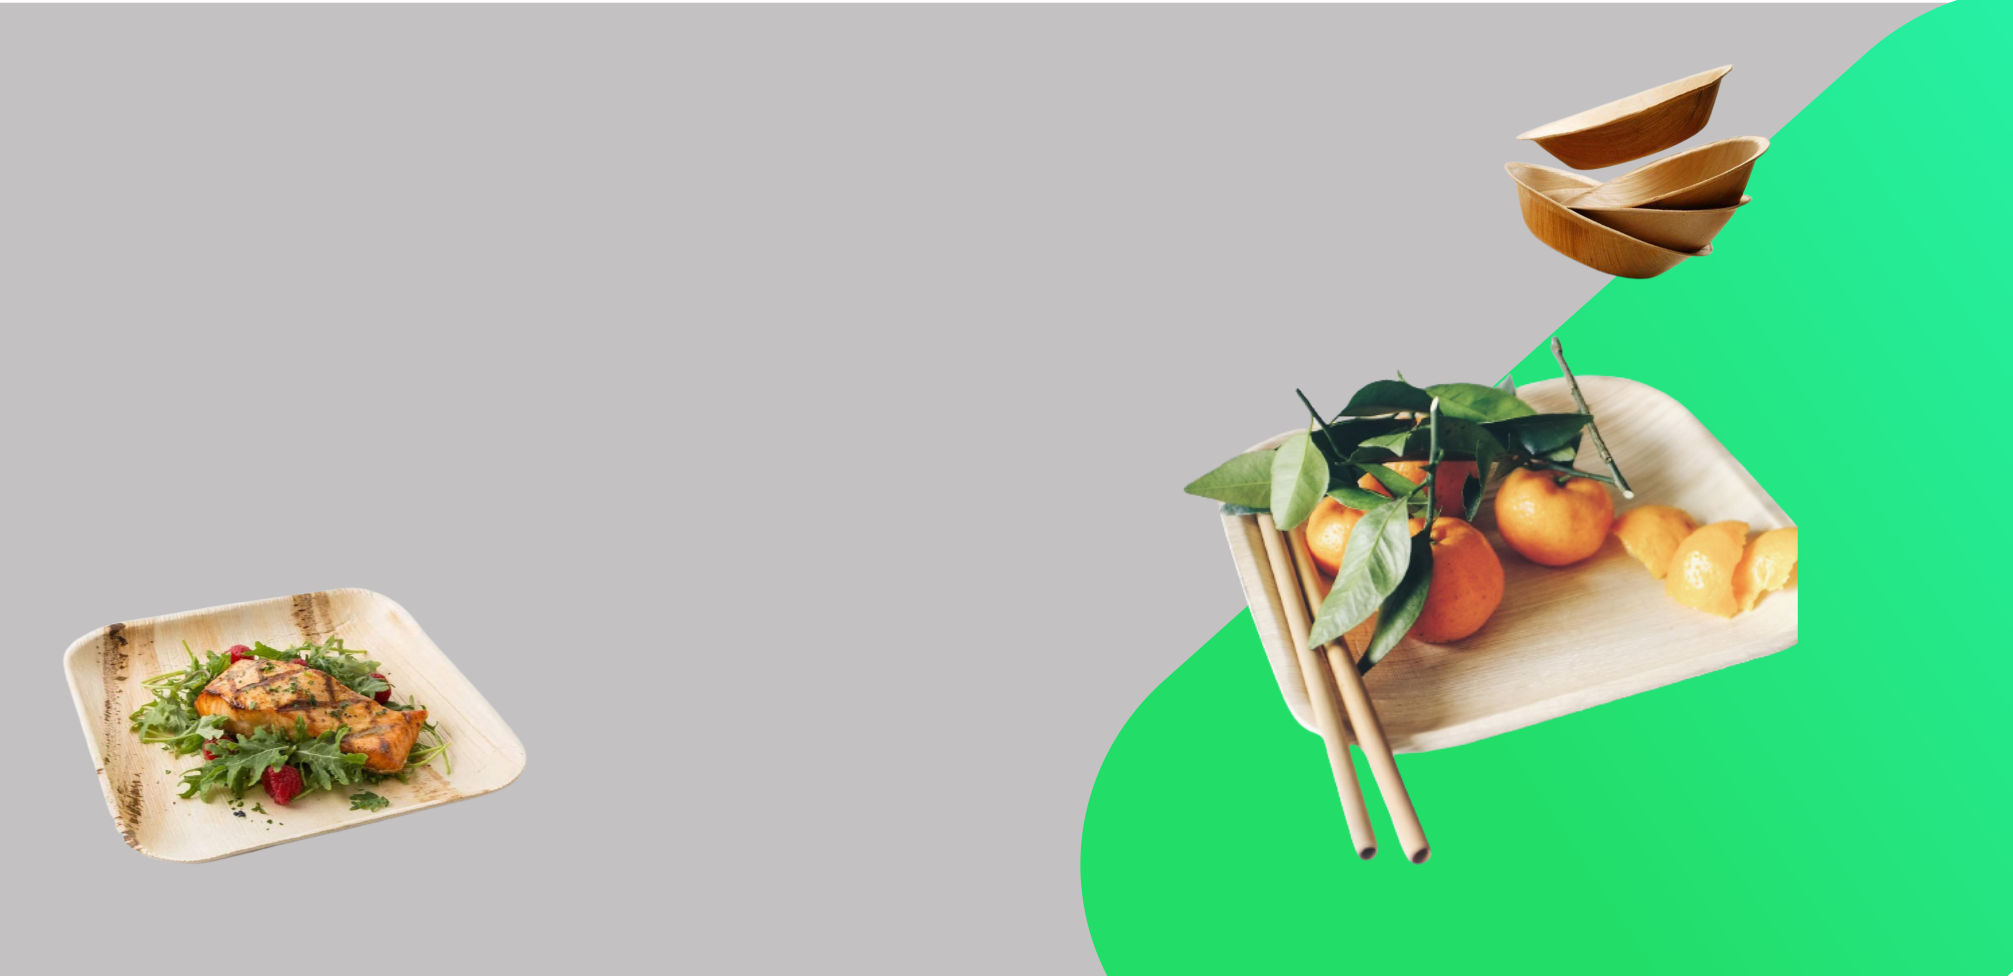
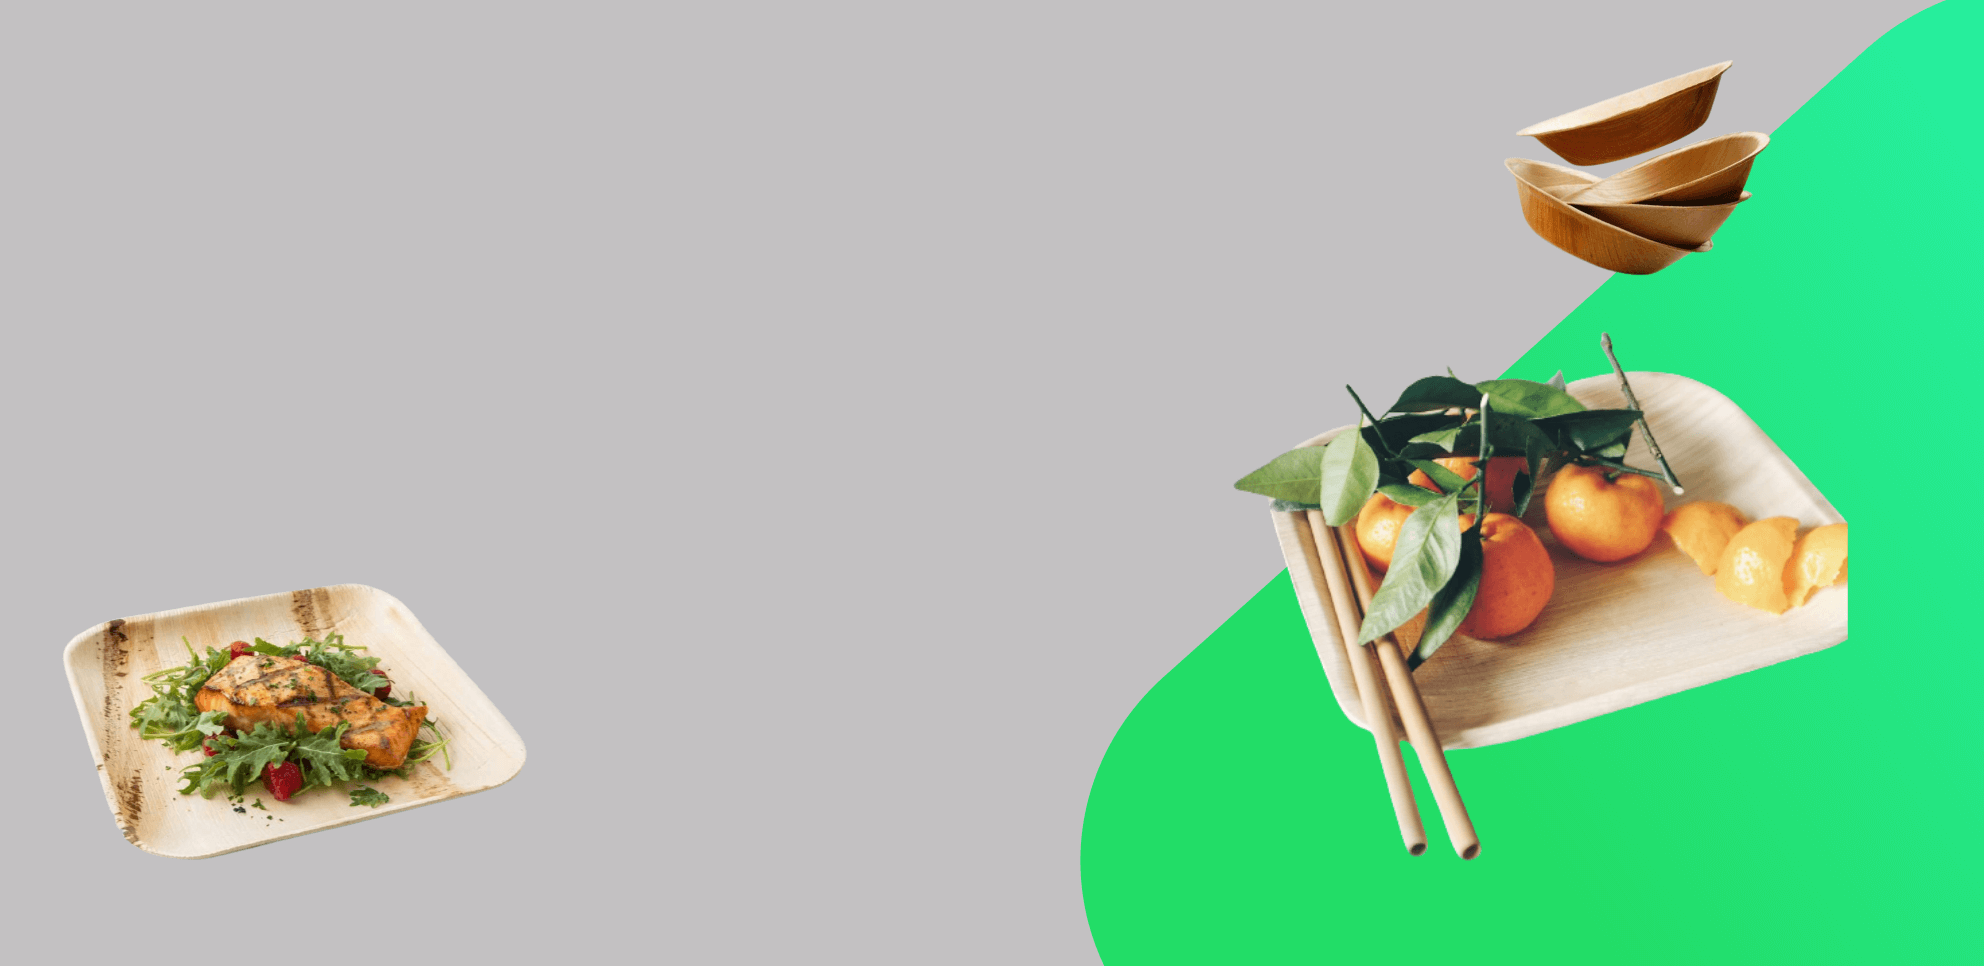
hero images update 1

diff --git a/index.html b/index.html
@@ -1501,12 +1501,12 @@
 															<rs-slides>
 																<rs-slide style="position: absolute;" data-key="rs-1"
 																	data-title="Slide"
-																	data-thumb="//colabrio.ams3.cdn.digitaloceanspaces.com/stockie_landing/demo5/2019/02/st__demo5__010-min-100x50.jpg"
+																	data-thumb="https://raw.githubusercontent.com/syed1ahmef/strawidea/main/images/exp%20(1).png"
 																	data-in="o:0;" data-out="a:false;">
 																	<img src="wp-content/plugins/slider-revolution/public/assets/assets/dummy.png"
 																		title="Home:demo5"
 																		class="rev-slidebg tp-rs-img rs-lazyload"
-																		data-lazyload="https://raw.githubusercontent.com/syed1ahmef/strawidea/main/images/header1%20(1).png"
+																		data-lazyload="https://raw.githubusercontent.com/syed1ahmef/strawidea/main/images/exp%20(1).png"
 																		data-parallax="3" data-no-retina>
 
 
@@ -1589,7 +1589,7 @@
 																	<img src="wp-content/plugins/slider-revolution/public/assets/assets/dummy.png"
 																		title="Home:demo5"
 																		class="rev-slidebg tp-rs-img rs-lazyload"
-																		data-lazyload="https://raw.githubusercontent.com/syed1ahmef/strawidea/main/images/header2%20(1).png"
+																		data-lazyload="https://raw.githubusercontent.com/syed1ahmef/strawidea/main/images/exp%20(2).png"
 																		data-parallax="3" data-no-retina>
 
 
